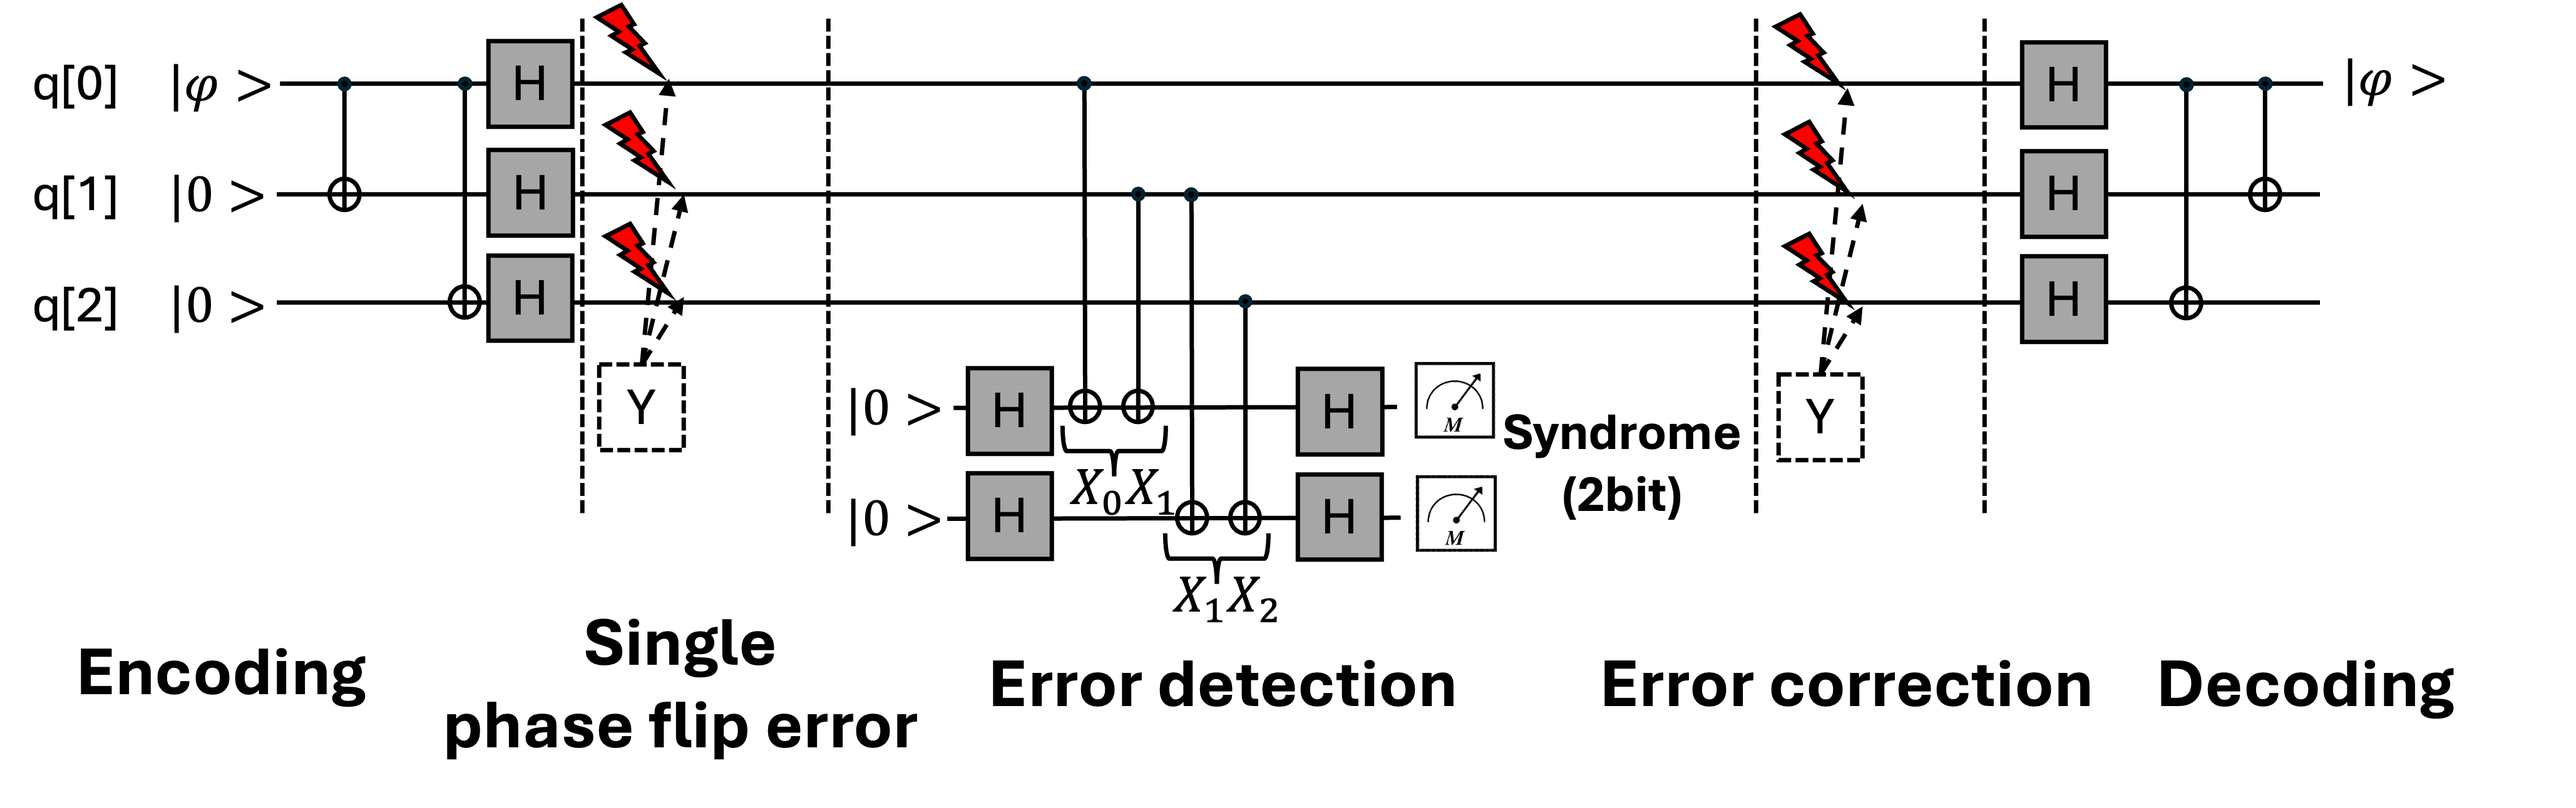
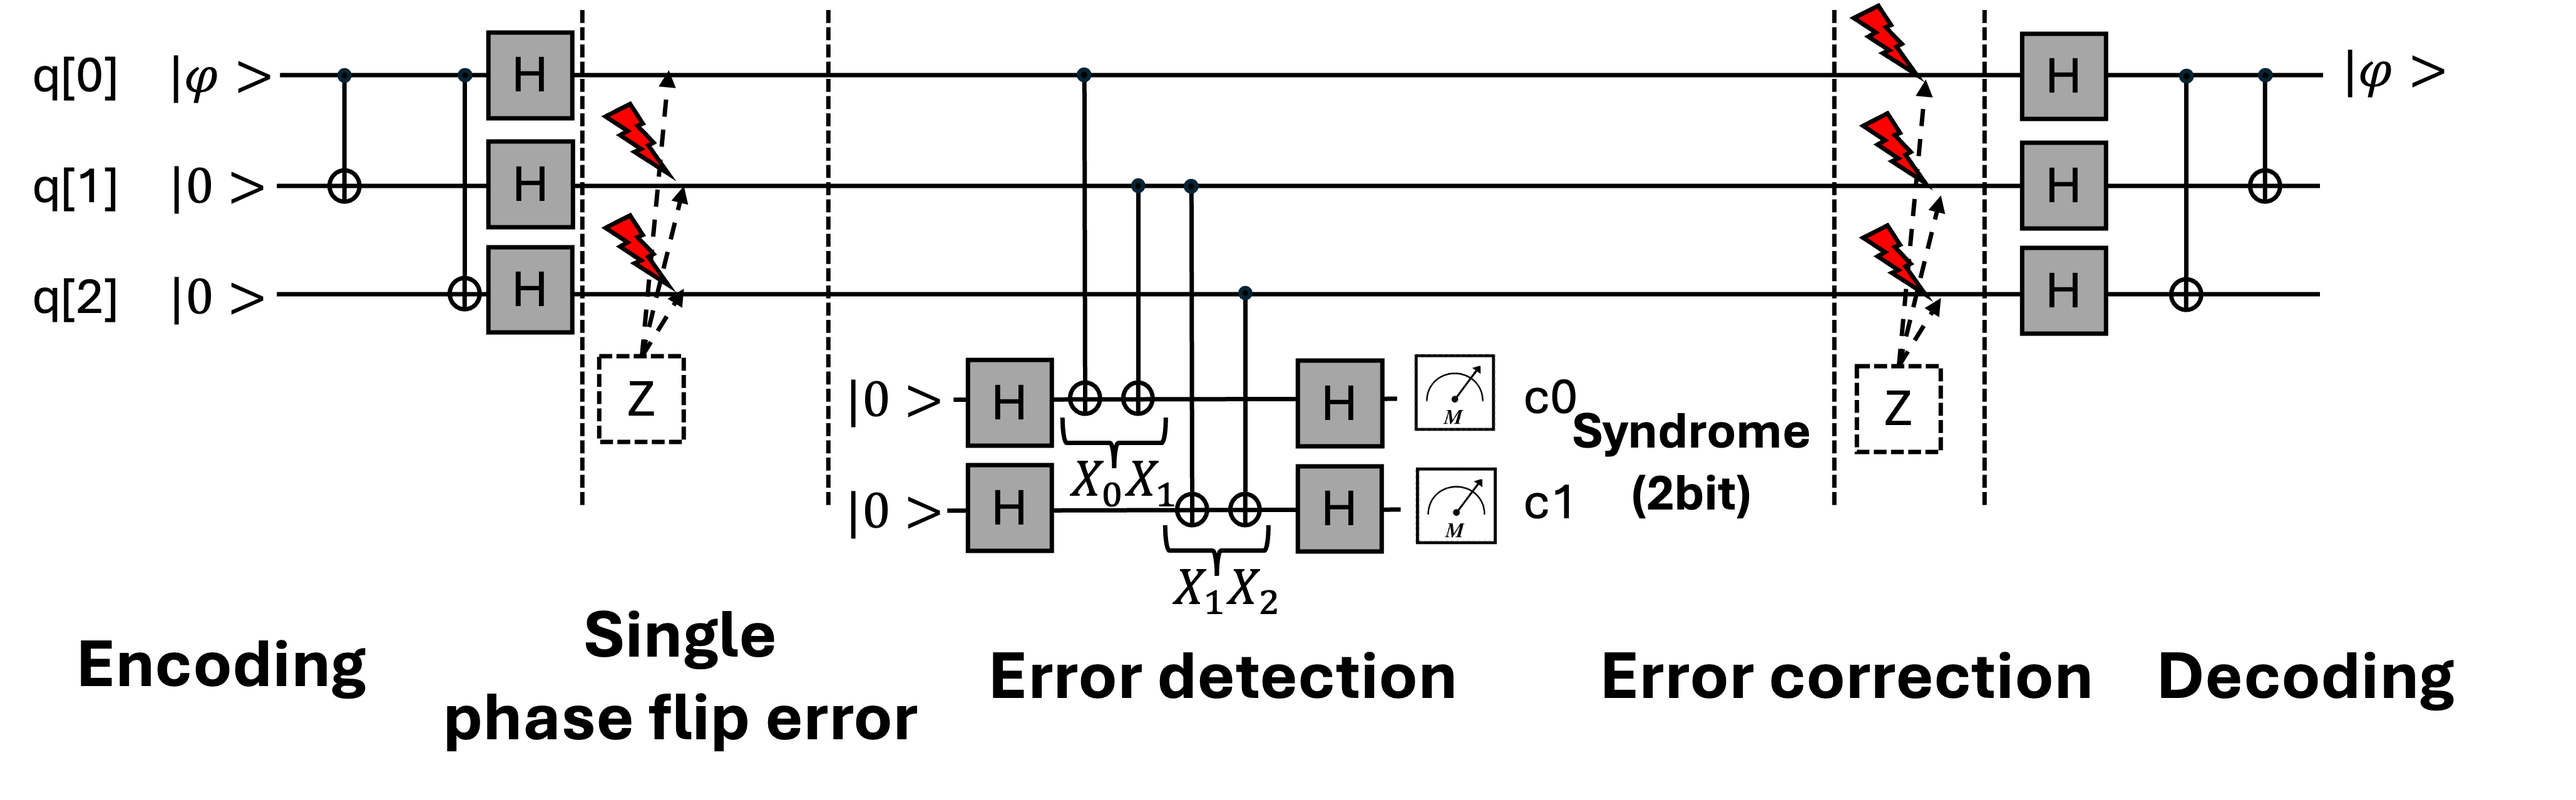
2025-10-24 001_Repetition_Code image Update

diff --git a/environmental_setup.py b/environmental_setup.py
@@ -1,32 +1,73 @@
-import os
 import sys
+import subprocess
 
-def install_package(package):
-    print(f"Installing {package}...")
-    command = f'"{sys.executable}" -m pip install {package}'
-    print(f"Executing: {command}")
-    result = os.system(command)
-    
-    if result != 0:
-        print(f"ERROR: Failed to install {package}. Exiting.")
-        sys.exit(1)
-    else:
-        print(f"Successfully installed {package}\n")
+# --- Script Configuration ---
 
-# Package list
-packages = [
-    "qiskit==2.1.2",
-    "matplotlib==3.10.0",
+# 1. Target Python version that is compatible with Qiskit
+PYTHON_VERSION = "3.12"
+
+# 2. List of packages to install (typo corrected)
+PACKAGES = [
+    "qiskit",
+    "matplotlib",
     "pylatexenc",
-    "qiskit-aer==0.17.1",
-    "numpy==2.0.2",
-    "qiskit_ibm_runtime==0.41.1"
+    "qiskit-aer",
+    "numpy",
+    "qiskit-ibm-runtime"  # Corrected from 'qiskit_ibm_runtime'
 ]
 
-print("Starting environmental setup...")
+# --------------------------
 
-# Install package
-for pkg in packages:
-    install_package(pkg)
+def run_command(command_list):
+    """
+    Executes a shell command and checks for errors.
+    """
+    print(f"\n>>> Executing: {' '.join(command_list)}")
+    try:
+        # Run the command. check=True raises an error if the command fails.
+        result = subprocess.run(command_list, check=True, text=True, encoding='utf-8')
+        print(f"--- Success: {' '.join(command_list)} ---")
+    except subprocess.CalledProcessError as e:
+        print(f"\n\n--- 🚨 ERROR! ---")
+        print(f"Command execution failed. (Exit Code: {e.returncode})")
+        print(f"Command: {e.cmd}")
+        print("Aborting script.")
+        sys.exit(1)
+    except FileNotFoundError:
+        print(f"\n\n--- 🚨 ERROR! ---")
+        print(f"Command 'conda' not found.")
+        print("Please ensure Conda is installed and you are in a Conda environment.")
+        print("Aborting script.")
+        sys.exit(1)
 
-print("All specified packages have been processed successfully.")
+def main():
+    print("=========================================================")
+    print("      Fixing the Current Conda Environment Script      ")
+    print("=========================================================")
+    print("This script will attempt to downgrade Python in the CURRENT")
+    print(f"environment to {PYTHON_VERSION} and install all required packages.")
+    print("This will resolve the Python 3.14 incompatibility issue.")
+    
+    # --- 1. Create the full install command ---
+    # We combine Python downgrade and package install into ONE command
+    # so the Conda solver can handle all constraints at once.
+    
+    install_cmd = (
+        ['conda', 'install', '-c', 'conda-forge', f'python={PYTHON_VERSION}'] 
+        + PACKAGES 
+        + ['-y']
+    )
+    
+    # --- 2. Execute the command ---
+    run_command(install_cmd)
+
+    # --- 3. Final success message ---
+    print("\n\n================= ✅ Success! ===================")
+    print(f"The current environment has been successfully updated.")
+    print(f"Python is now downgraded to {PYTHON_VERSION} (or compatible).")
+    print("All Qiskit packages should be installed correctly.")
+    print("\nYou can now proceed with your work in this environment.")
+    print("=========================================================")
+
+if __name__ == "__main__":
+    main()

diff --git a/001_Repetition_Code/main.py b/001_Repetition_Code/main.py
@@ -1,0 +1,65 @@
+from qiskit import QuantumCircuit, QuantumRegister, ClassicalRegister, transpile
+from collections import Counter
+from qiskit.circuit import Gate
+from qiskit_aer import AerSimulator
+import random
+from encoding import *
+from error_injection import *
+from error_detection import *
+from error_correction import *
+from decoding import *
+
+def main():
+    Error_Cases = [None, 0, 1, 2] # No error / q0 error / q1 error / q2 error
+    iters=1
+    error_report = {'NE':0, 'CE':0, 'UE':0} # No Error (NE) / Correctable Error (CE) / Uncorrectable Error (UE)
+    ################ Repetition Code (X Error) ################
+    print("--- Repetition Code (X Error) ---")
+    
+
+    for iters_idx in range(1, iters):
+        # 1. Encoding
+        qc_main=encoding_func()
+        qc_main.barrier()
+
+        # 2. Error Injection
+        error_injection_index = Error_Cases[random.randrange(1,5) - 1] # None, 0, 1, 2
+        error_injection_func(qc_main,error_injection_index)
+        qc_main.barrier()
+
+        # 3. Error Detection
+        error_detection_func(qc_main)
+        qc_main.barrier()
+
+        # 4. Error Correction (Using Syndrome)
+        simulator = AerSimulator()
+        trans_qc_main = transpile(qc_main, simulator)
+        result = simulator.run(trans_qc_main, shots=1).result()
+        counts=result.get_counts()
+        measured_string = list(counts.keys())[0]
+        syndrome = measured_string[-2] + measured_string[-1] # c1c0
+        
+        error_correction_func(qc_main, syndrome)
+
+        qc_main.barrier()
+
+        # 5. Decoding
+
+
+        # 6. Result report
+
+    print("Error Report (X Error):",error_report)
+    ################ Repetition Code (Z Error) ################
+    print("--- Repetition Code (Z Error) ---")
+    # error report reset
+    error_report['NE']=0
+    error_report['CE']=0
+    error_report['UE']=0
+
+
+
+
+    print("Error Report (Z Error):",error_report)
+    
+if __name__ == '__main__':
+    main()

diff --git a/001_Repetition_Code/error_detection.py b/001_Repetition_Code/error_detection.py
@@ -1,0 +1,45 @@
+from qiskit import QuantumCircuit, QuantumRegister, ClassicalRegister
+from collections import Counter
+from qiskit.circuit import Gate
+import sys
+
+# Can't get syndrome value now
+# Why? Qiskit seperates (1) circuit build and (2) circuit run phases.
+# The 'error_detection_func' is part of the (1) circuit build phase. Just add measurements
+# The measurement (syndrome) can only be obtained after this function completes
+# and the entire circuit is run on a simulator or actual device (2).
+
+def error_detection_func (qc, error_type='X'):
+
+    if error_type=='X':
+        # S0 = Z0 Z1
+        qc.cx(0,3)
+        qc.cx(1,3)
+
+        # S1 = Z1 Z2
+        qc.cx(1,4)
+        qc.cx(2,4)
+
+        qc.measure(3,0) # c0
+        qc.measure(4,1) # c1
+
+    elif error_type=='Z':
+        qc.h([3, 4]) # applying hadamard gate on q3, q4
+        # S0 = X0 X1
+        qc.cx(0,3)
+        qc.cx(1,3)
+
+        # S1 = X1 X2
+        qc.cx(1,4)
+        qc.cx(2,4)
+
+        qc.h([3, 4]) # applying hadamard gate on q3, q4
+
+        qc.measure(3,0) # c0
+        qc.measure(4,1) # c1
+
+    else:
+        print("Wrong Error Type")
+        sys.exit(1)
+
+    return

diff --git a/001_Repetition_Code/encoding.py b/001_Repetition_Code/encoding.py
@@ -1,0 +1,24 @@
+from qiskit import QuantumCircuit, QuantumRegister, ClassicalRegister
+from collections import Counter
+from qiskit.circuit import Gate
+import sys
+
+# Physical qubit: |φ> = a|0> + b|1>
+# Logical qubit (X Error): |φL> = a|0L>+b|1L> = a|000>+b|111>
+# Logical qubit (Z Error): |φL> = a|0L>+b|1L> = a|+++>+b|--->
+# Make qubits into entanglement state (e.g., Bell-State, GHZ)
+def encoding_func(error_type='X'):
+    qc = QuantumCircuit(5, 3) # input: 5, output: 3
+    
+    if error_type=='X':
+        qc.cx(0,1)
+        qc.cx(0,2)
+    elif error_type=='Z':
+        qc.cx(0,1)
+        qc.cx(0,2)
+        qc.h([0, 1, 2]) # applying hadamard gate on q0, q1, q2
+    else:
+        print("Wrong Error Type")
+        sys.exit(1)
+
+    return qc

diff --git a/001_Repetition_Code/error_injection.py b/001_Repetition_Code/error_injection.py
@@ -1,0 +1,23 @@
+from qiskit import QuantumCircuit, QuantumRegister, ClassicalRegister
+from collections import Counter
+from qiskit.circuit import Gate
+import sys
+
+# error_type='X' -> inject single X error (bit flip error)
+# error_type='Z' -> inject single Z error (phase flip error)
+def error_injection_func(qc, flip_index, error_type='X'):
+    
+    # No Error
+    if flip_index==None:
+        return
+    
+    # Error Injection
+    if error_type=='X':
+        qc.x(flip_index)
+    elif error_type=='Z':
+        qc.z(flip_index)
+    else:
+        print("Wrong Error Type")
+        sys.exit(1)
+
+    return

diff --git a/001_Repetition_Code/error_correction.py b/001_Repetition_Code/error_correction.py
@@ -1,0 +1,19 @@
+from qiskit import QuantumCircuit, QuantumRegister, ClassicalRegister
+from collections import Counter
+from qiskit.circuit import Gate
+import sys
+
+def error_correction_func (qc, syndrome_value, error_type='X'):
+
+    if error_type=='X':
+        qc.cx(0,1)
+        qc.cx(0,2)
+    elif error_type=='Z':
+        qc.cx(0,1)
+        qc.cx(0,2)
+        qc.h([0, 1, 2]) # applying hadamard gate on q0, q1, q2
+    else:
+        print("Wrong Error Type")
+        sys.exit(1)
+
+    return

diff --git a/001_Repetition_Code/decoding.py b/001_Repetition_Code/decoding.py
@@ -1,13 +1,3 @@
 from qiskit import QuantumCircuit, QuantumRegister, ClassicalRegister
 from collections import Counter
 from qiskit.circuit import Gate
-from qiskit_aer import Aer
-import pprint
-
-
-
-def main():
-    print('This is Main Function')
-    
-if __name__ == '__main__':
-    main()

diff --git a/001_Repetition_Code/README.md b/001_Repetition_Code/README.md
@@ -6,14 +6,14 @@
 # Overview
 1) Repetition Code (X Error)
 ![Overview_Bit_Error](images/Overview_Bit_Error.png)
-2) Repetition Code (Y Error)
+2) Repetition Code (Z Error)
 ![Overview_Phase_Error](images/Overview_Phase_Error.png)
 
 # To do
 - Fill the blank of the code.
 
 # Getting Started
-- $ python Repetition_Code.py
+- $ python main.py
 
 # Hint
 - It can detect and correct single bit flip error.
